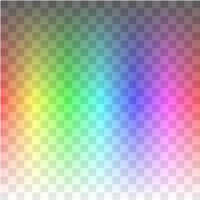
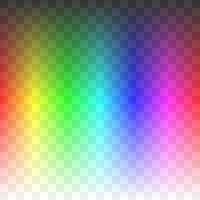
updated examples

diff --git a/bin/minicanvas.js b/bin/minicanvas.js
@@ -1,5 +1,6 @@
 (function () { "use strict";
 var console = (1,eval)('this').console || {log:function(){}};
+var $estr = function() { return js.Boot.__string_rec(this,''); };
 function $extend(from, fields) {
 	function Inherit() {} Inherit.prototype = from; var proto = new Inherit();
 	for (var name in fields) proto[name] = fields[name];
@@ -108,21 +109,21 @@ Main.main = function() {
 		return $r;
 	}(this))),thx.color._HSL.HSL_Impl_.toRGBA(red),thx.color._HSL.HSL_Impl_.toRGBA((function($this) {
 		var $r;
-		var this11 = thx.color._HSL.HSL_Impl_.analogous(red);
-		$r = this11._1;
+		var this2 = thx.color._HSL.HSL_Impl_.analogous(red);
+		$r = this2._1;
 		return $r;
 	}(this)))],[thx.color._HSL.HSL_Impl_.toRGBA((function($this) {
 		var $r;
-		var this12 = thx.color._HSL.HSL_Impl_.split(green);
-		$r = this12._0;
+		var this3 = thx.color._HSL.HSL_Impl_.split(green);
+		$r = this3._0;
 		return $r;
 	}(this))),thx.color._HSL.HSL_Impl_.toRGBA(green),thx.color._HSL.HSL_Impl_.toRGBA((function($this) {
 		var $r;
-		var this13 = thx.color._HSL.HSL_Impl_.split(green);
-		$r = this13._1;
+		var this4 = thx.color._HSL.HSL_Impl_.split(green);
+		$r = this4._1;
 		return $r;
 	}(this)))]]).display("palette");
-	minicanvas.MiniCanvas.create(200,200).grid().cross().display("grid");
+	minicanvas.MiniCanvas.create(201,201).grid().cross().display("grid");
 	minicanvas.MiniCanvas.create(200,200).checkboard().onDown(function(e) {
 		e.mini.dot(e.x,e.y,6,thx.color._RGBA.RGBA_Impl_.fromString("#0066CC")).onMove(function(e1) {
 			e1.mini.dot(e1.x,e1.y);
@@ -150,11 +151,12 @@ StringTools.replace = function(s,sub,by) {
 var haxe = {};
 haxe.StackItem = { __constructs__ : ["CFunction","Module","FilePos","Method","LocalFunction"] };
 haxe.StackItem.CFunction = ["CFunction",0];
+haxe.StackItem.CFunction.toString = $estr;
 haxe.StackItem.CFunction.__enum__ = haxe.StackItem;
-haxe.StackItem.Module = function(m) { var $x = ["Module",1,m]; $x.__enum__ = haxe.StackItem; return $x; };
-haxe.StackItem.FilePos = function(s,file,line) { var $x = ["FilePos",2,s,file,line]; $x.__enum__ = haxe.StackItem; return $x; };
-haxe.StackItem.Method = function(classname,method) { var $x = ["Method",3,classname,method]; $x.__enum__ = haxe.StackItem; return $x; };
-haxe.StackItem.LocalFunction = function(v) { var $x = ["LocalFunction",4,v]; $x.__enum__ = haxe.StackItem; return $x; };
+haxe.StackItem.Module = function(m) { var $x = ["Module",1,m]; $x.__enum__ = haxe.StackItem; $x.toString = $estr; return $x; };
+haxe.StackItem.FilePos = function(s,file,line) { var $x = ["FilePos",2,s,file,line]; $x.__enum__ = haxe.StackItem; $x.toString = $estr; return $x; };
+haxe.StackItem.Method = function(classname,method) { var $x = ["Method",3,classname,method]; $x.__enum__ = haxe.StackItem; $x.toString = $estr; return $x; };
+haxe.StackItem.LocalFunction = function(v) { var $x = ["LocalFunction",4,v]; $x.__enum__ = haxe.StackItem; $x.toString = $estr; return $x; };
 haxe.CallStack = function() { };
 haxe.CallStack.callStack = function() {
 	var oldValue = Error.prepareStackTrace;
@@ -300,13 +302,11 @@ minicanvas.MiniCanvas.prototype = {
 	,border: function(weight,color,ox,oy) {
 		if(oy == null) oy = 0.5;
 		if(ox == null) ox = 0.5;
-		if(color == null) color = 255;
 		if(weight == null) weight = 1.0;
+		if(null == color) color = thx.color._RGBA.RGBA_Impl_.fromString("rgba(0,0,0,1)");
 		return this.rect(weight / 2,weight / 2,this.width - weight / 2,this.height - weight / 2,weight,color);
 	}
-	,box: function(handler,ox,oy) {
-		if(oy == null) oy = 0.5;
-		if(ox == null) ox = 0.5;
+	,box: function(handler) {
 		var _g1 = 0;
 		var _g = this.width;
 		while(_g1 < _g) {
@@ -315,28 +315,28 @@ minicanvas.MiniCanvas.prototype = {
 			var _g2 = this.height;
 			while(_g3 < _g2) {
 				var y = _g3++;
-				this.ctx.fillStyle = thx.color._RGBA.RGBA_Impl_.toCSS3(handler(x / this.width,y / this.height));
-				this.ctx.fillRect(x + ox,y + oy,1,1);
+				this.ctx.fillStyle = thx.color._RGBA.RGBA_Impl_.toString(handler(x / this.width,y / this.height));
+				this.ctx.fillRect(x,y,1,1);
 			}
 		}
 		return this;
 	}
-	,checkboard: function(size,light,dark,ox,oy) {
-		if(oy == null) oy = 0.5;
-		if(ox == null) ox = 0.5;
+	,checkboard: function(size,light,dark) {
 		if(size == null) size = 8;
 		var cols = Math.ceil(this.width / size);
 		var rows = Math.ceil(this.height / size);
-		var slight = thx.color._RGBA.RGBA_Impl_.toCSS3(null == light?-1:light);
-		var sdark = thx.color._RGBA.RGBA_Impl_.toCSS3(null == dark?-858993409:dark);
+		var slight;
+		if(null == light) slight = thx.color._RGBA.RGBA_Impl_.fromString("rgba(255,255,255,1)"); else slight = light;
+		var sdark;
+		if(null == dark) sdark = thx.color._RGBA.RGBA_Impl_.fromString("rgba(204,204,204,1)"); else sdark = dark;
 		var _g = 0;
 		while(_g < cols) {
 			var c = _g++;
 			var _g1 = 0;
 			while(_g1 < rows) {
 				var r = _g1++;
-				if(c % 2 != r % 2) this.ctx.fillStyle = slight; else this.ctx.fillStyle = sdark;
-				this.ctx.fillRect(c * size + ox,r * size + oy,size,size);
+				if(c % 2 != r % 2) this.ctx.fillStyle = thx.color._RGBA.RGBA_Impl_.toString(slight); else this.ctx.fillStyle = thx.color._RGBA.RGBA_Impl_.toString(sdark);
+				this.ctx.fillRect(c * size,r * size,size,size);
 			}
 		}
 		return this;
@@ -352,14 +352,14 @@ minicanvas.MiniCanvas.prototype = {
 	,dot: function(x,y,radius,color) {
 		if(radius == null) radius = 3.0;
 		this.ctx.beginPath();
-		this.ctx.fillStyle = thx.color._RGBA.RGBA_Impl_.toCSS3((function($this) {
+		this.ctx.fillStyle = thx.color._RGBA.RGBA_Impl_.toString((function($this) {
 			var $r;
 			var t;
 			{
 				var _0 = color;
 				if(null == _0) t = null; else t = _0;
 			}
-			$r = t != null?t:-869072641;
+			$r = t != null?t:thx.color._RGBA.RGBA_Impl_.fromString("rgba(204,51,0,1)");
 			return $r;
 		}(this)));
 		this.ctx.arc(x,y,radius,0,Math.PI * 2,true);
@@ -374,7 +374,7 @@ minicanvas.MiniCanvas.prototype = {
 		if(dx == null) dx = 10.0;
 		if(dx == 0) throw "invalid argument dx, should be different from zero";
 		if(dy == 0) throw "invalid argument dy, should be different from zero";
-		if(null == color) color = -1431655681;
+		if(null == color) color = thx.color._RGBA.RGBA_Impl_.fromString("rgba(170,170,170,1)");
 		var py = oy % dy;
 		while(py - radius <= this.height) {
 			var px = ox % dx;
@@ -387,7 +387,7 @@ minicanvas.MiniCanvas.prototype = {
 		return this;
 	}
 	,fill: function(color) {
-		this.ctx.fillStyle = thx.color._RGBA.RGBA_Impl_.toCSS3(color);
+		this.ctx.fillStyle = thx.color._RGBA.RGBA_Impl_.toString(color);
 		this.ctx.fillRect(0,0,this.width,this.height);
 		return this;
 	}
@@ -406,7 +406,7 @@ minicanvas.MiniCanvas.prototype = {
 		if(weight == null) weight = 1.0;
 		if(dy == null) dy = 10.0;
 		if(dy == 0) throw "invalid argument dy, should be different from zero";
-		if(null == color) color = -858993409;
+		if(null == color) color = thx.color._RGBA.RGBA_Impl_.fromString("rgba(204,204,204,1)");
 		var py = oy % dy;
 		while(py - weight / 2 <= this.height) {
 			this.lineHorizontal(py,weight,color);
@@ -419,7 +419,7 @@ minicanvas.MiniCanvas.prototype = {
 		if(weight == null) weight = 1.0;
 		if(dx == null) dx = 10.0;
 		if(dx == 0) throw "invalid argument dx, should be different from zero";
-		if(null == color) color = -858993409;
+		if(null == color) color = thx.color._RGBA.RGBA_Impl_.fromString("rgba(204,204,204,1)");
 		var px = ox % dx;
 		while(px - weight / 2 <= this.width) {
 			this.lineVertical(px,weight,color);
@@ -432,8 +432,8 @@ minicanvas.MiniCanvas.prototype = {
 		var _g = this.width;
 		while(_g1 < _g) {
 			var x = _g1++;
-			this.ctx.fillStyle = thx.color._RGBA.RGBA_Impl_.toCSS3(handler(x / this.width));
-			this.ctx.fillRect(x + 0.5,0,1,this.height);
+			this.ctx.fillStyle = thx.color._RGBA.RGBA_Impl_.toString(handler(x / this.width));
+			this.ctx.fillRect(x,0,1,this.height);
 		}
 		return this;
 	}
@@ -442,24 +442,18 @@ minicanvas.MiniCanvas.prototype = {
 		var _g = this.height;
 		while(_g1 < _g) {
 			var y = _g1++;
-			this.ctx.fillStyle = thx.color._RGBA.RGBA_Impl_.toCSS3(handler(y / this.height));
-			this.ctx.fillRect(0,y + 0.5,this.width,1);
+			this.ctx.fillStyle = thx.color._RGBA.RGBA_Impl_.toString(handler(y / this.height));
+			this.ctx.fillRect(0,y,this.width,1);
 		}
 		return this;
 	}
 	,line: function(x0,y0,x1,y1,weight,color) {
 		if(weight == null) weight = 1.0;
 		this.ctx.lineWidth = weight;
-		this.ctx.strokeStyle = thx.color._RGBA.RGBA_Impl_.toCSS3((function($this) {
-			var $r;
-			var t;
-			{
-				var _0 = color;
-				if(null == _0) t = null; else t = _0;
-			}
-			$r = t != null?t:255;
-			return $r;
-		}(this)));
+		var t;
+		var _0 = color;
+		if(null == _0) t = null; else t = _0;
+		if(t != null) this.ctx.strokeStyle = thx.color._RGBA.RGBA_Impl_.toString(t); else this.ctx.strokeStyle = thx.color._RGBA.RGBA_Impl_.toString(thx.color._RGBA.RGBA_Impl_.fromString("rgba(0,0,0,1)"));
 		this.ctx.beginPath();
 		this.ctx.moveTo(x0,y0);
 		this.ctx.lineTo(x1,y1);
@@ -479,19 +473,19 @@ minicanvas.MiniCanvas.prototype = {
 		if(padding == null) padding = 2.0;
 		var rows = colors.length;
 		var h = (this.height - 2 * margin - (rows - 1) * padding) / rows;
-		var py = margin + 0.5;
+		var py = margin;
 		var _g = 0;
 		while(_g < colors.length) {
 			var row = colors[_g];
 			++_g;
 			var cols = row.length;
 			var w = (this.width - 2 * margin - (cols - 1) * padding) / cols;
-			var px = margin + 0.5;
+			var px = margin;
 			var _g1 = 0;
 			while(_g1 < row.length) {
 				var col = row[_g1];
 				++_g1;
-				this.ctx.fillStyle = thx.color._RGBA.RGBA_Impl_.toCSS3(col);
+				this.ctx.fillStyle = thx.color._RGBA.RGBA_Impl_.toString(col);
 				this.ctx.fillRect(px,py,w,h);
 				px += w + padding;
 			}
@@ -502,12 +496,12 @@ minicanvas.MiniCanvas.prototype = {
 	,rect: function(x0,y0,x1,y1,weight,lineColor,fillColor) {
 		if(weight == null) weight = 1.0;
 		if(null != fillColor) {
-			this.ctx.fillStyle = thx.color._RGBA.RGBA_Impl_.toCSS3(fillColor);
+			this.ctx.fillStyle = thx.color._RGBA.RGBA_Impl_.toString(fillColor);
 			this.ctx.fillRect(x0,y0,x1 - x0,y1 - y0);
 		}
 		if(null != lineColor) {
 			this.ctx.lineWidth = weight;
-			this.ctx.strokeStyle = thx.color._RGBA.RGBA_Impl_.toCSS3(lineColor);
+			this.ctx.strokeStyle = thx.color._RGBA.RGBA_Impl_.toString(lineColor);
 			this.ctx.strokeRect(x0,y0,x1 - x0,y1 - y0);
 		}
 		return this;
@@ -633,16 +627,16 @@ minicanvas.MiniCanvas.prototype = {
 		return this;
 	}
 	,getDevicePixelRatio: function() {
-		throw new thx.core.error.AbstractMethod({ fileName : "MiniCanvas.hx", lineNumber : 406, className : "minicanvas.MiniCanvas", methodName : "getDevicePixelRatio"});
+		throw new thx.core.error.AbstractMethod({ fileName : "MiniCanvas.hx", lineNumber : 409, className : "minicanvas.MiniCanvas", methodName : "getDevicePixelRatio"});
 	}
 	,getBackingStoreRatio: function() {
-		throw new thx.core.error.AbstractMethod({ fileName : "MiniCanvas.hx", lineNumber : 409, className : "minicanvas.MiniCanvas", methodName : "getBackingStoreRatio"});
+		throw new thx.core.error.AbstractMethod({ fileName : "MiniCanvas.hx", lineNumber : 412, className : "minicanvas.MiniCanvas", methodName : "getBackingStoreRatio"});
 	}
 	,init: function() {
-		throw new thx.core.error.AbstractMethod({ fileName : "MiniCanvas.hx", lineNumber : 412, className : "minicanvas.MiniCanvas", methodName : "init"});
+		throw new thx.core.error.AbstractMethod({ fileName : "MiniCanvas.hx", lineNumber : 415, className : "minicanvas.MiniCanvas", methodName : "init"});
 	}
 	,nativeDisplay: function(name) {
-		throw new thx.core.error.AbstractMethod({ fileName : "MiniCanvas.hx", lineNumber : 415, className : "minicanvas.MiniCanvas", methodName : "nativeDisplay"});
+		throw new thx.core.error.AbstractMethod({ fileName : "MiniCanvas.hx", lineNumber : 418, className : "minicanvas.MiniCanvas", methodName : "nativeDisplay"});
 	}
 	,processScale: function() {
 		var _g = this.scaleMode;
@@ -657,10 +651,12 @@ minicanvas.MiniCanvas.prototype = {
 };
 minicanvas.ScaleMode = { __constructs__ : ["NoScale","Auto","Scaled"] };
 minicanvas.ScaleMode.NoScale = ["NoScale",0];
+minicanvas.ScaleMode.NoScale.toString = $estr;
 minicanvas.ScaleMode.NoScale.__enum__ = minicanvas.ScaleMode;
 minicanvas.ScaleMode.Auto = ["Auto",1];
+minicanvas.ScaleMode.Auto.toString = $estr;
 minicanvas.ScaleMode.Auto.__enum__ = minicanvas.ScaleMode;
-minicanvas.ScaleMode.Scaled = function(v) { var $x = ["Scaled",2,v]; $x.__enum__ = minicanvas.ScaleMode; return $x; };
+minicanvas.ScaleMode.Scaled = function(v) { var $x = ["Scaled",2,v]; $x.__enum__ = minicanvas.ScaleMode; $x.toString = $estr; return $x; };
 minicanvas.BrowserCanvas = function(width,height,scaleMode) {
 	this.isNode = false;
 	this.isBrowser = true;
@@ -1130,9 +1126,6 @@ thx.color._RGBA.RGBA_Impl_.fromString = function(color) {
 		return null;
 	}
 };
-thx.color._RGBA.RGBA_Impl_.toCSS3 = function(this1) {
-	return thx.color._RGBA.RGBA_Impl_.toString(this1);
-};
 thx.color._RGBA.RGBA_Impl_.toString = function(this1) {
 	return "rgba(" + (this1 >> 24 & 255) + "," + (this1 >> 16 & 255) + "," + (this1 >> 8 & 255) + "," + (this1 & 255) / 255 + ")";
 };
@@ -1284,12 +1277,12 @@ thx.color.parse.ColorInfo = function(name,channels) {
 	this.channels = channels;
 };
 thx.color.parse.ChannelInfo = { __constructs__ : ["CIPercent","CIFloat","CIDegree","CIInt8","CIInt","CIBool"] };
-thx.color.parse.ChannelInfo.CIPercent = function(value) { var $x = ["CIPercent",0,value]; $x.__enum__ = thx.color.parse.ChannelInfo; return $x; };
-thx.color.parse.ChannelInfo.CIFloat = function(value) { var $x = ["CIFloat",1,value]; $x.__enum__ = thx.color.parse.ChannelInfo; return $x; };
-thx.color.parse.ChannelInfo.CIDegree = function(value) { var $x = ["CIDegree",2,value]; $x.__enum__ = thx.color.parse.ChannelInfo; return $x; };
-thx.color.parse.ChannelInfo.CIInt8 = function(value) { var $x = ["CIInt8",3,value]; $x.__enum__ = thx.color.parse.ChannelInfo; return $x; };
-thx.color.parse.ChannelInfo.CIInt = function(value) { var $x = ["CIInt",4,value]; $x.__enum__ = thx.color.parse.ChannelInfo; return $x; };
-thx.color.parse.ChannelInfo.CIBool = function(value) { var $x = ["CIBool",5,value]; $x.__enum__ = thx.color.parse.ChannelInfo; return $x; };
+thx.color.parse.ChannelInfo.CIPercent = function(value) { var $x = ["CIPercent",0,value]; $x.__enum__ = thx.color.parse.ChannelInfo; $x.toString = $estr; return $x; };
+thx.color.parse.ChannelInfo.CIFloat = function(value) { var $x = ["CIFloat",1,value]; $x.__enum__ = thx.color.parse.ChannelInfo; $x.toString = $estr; return $x; };
+thx.color.parse.ChannelInfo.CIDegree = function(value) { var $x = ["CIDegree",2,value]; $x.__enum__ = thx.color.parse.ChannelInfo; $x.toString = $estr; return $x; };
+thx.color.parse.ChannelInfo.CIInt8 = function(value) { var $x = ["CIInt8",3,value]; $x.__enum__ = thx.color.parse.ChannelInfo; $x.toString = $estr; return $x; };
+thx.color.parse.ChannelInfo.CIInt = function(value) { var $x = ["CIInt",4,value]; $x.__enum__ = thx.color.parse.ChannelInfo; $x.toString = $estr; return $x; };
+thx.color.parse.ChannelInfo.CIBool = function(value) { var $x = ["CIBool",5,value]; $x.__enum__ = thx.color.parse.ChannelInfo; $x.toString = $estr; return $x; };
 thx.core = {};
 thx.core.ArrayFloats = function() { };
 thx.core.ArrayFloats.resize = function(array,length,fill) {
